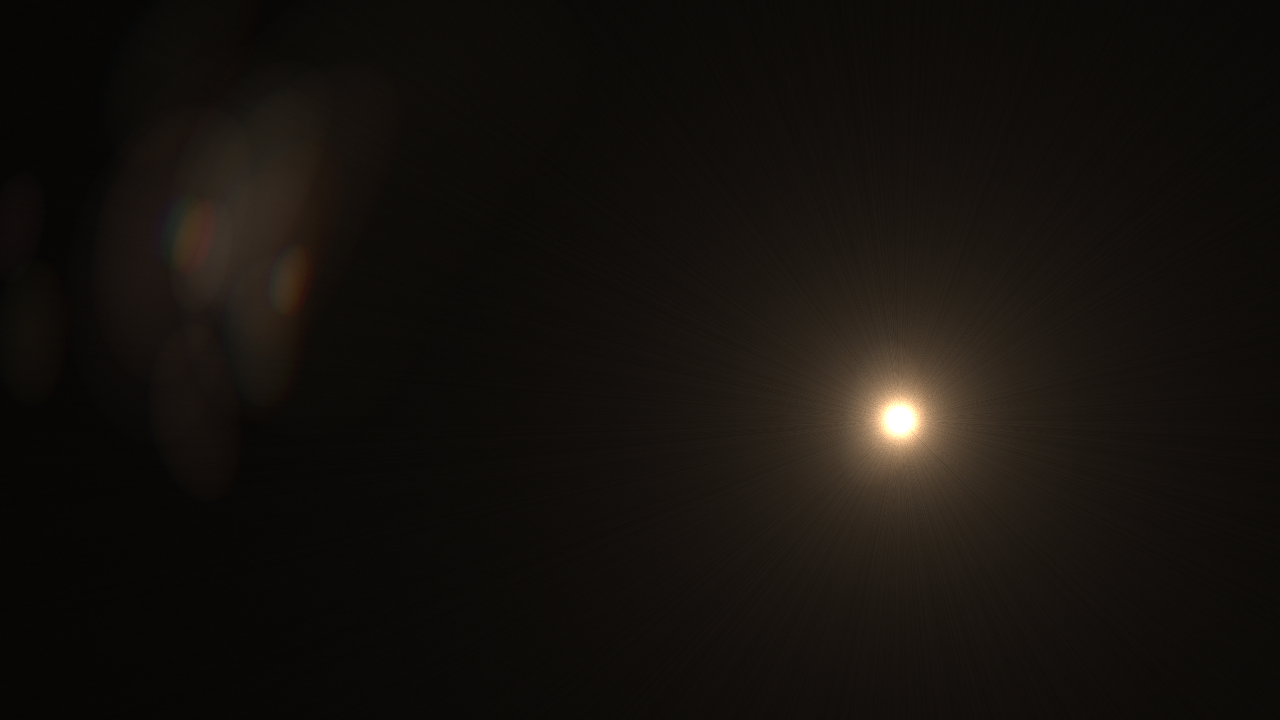
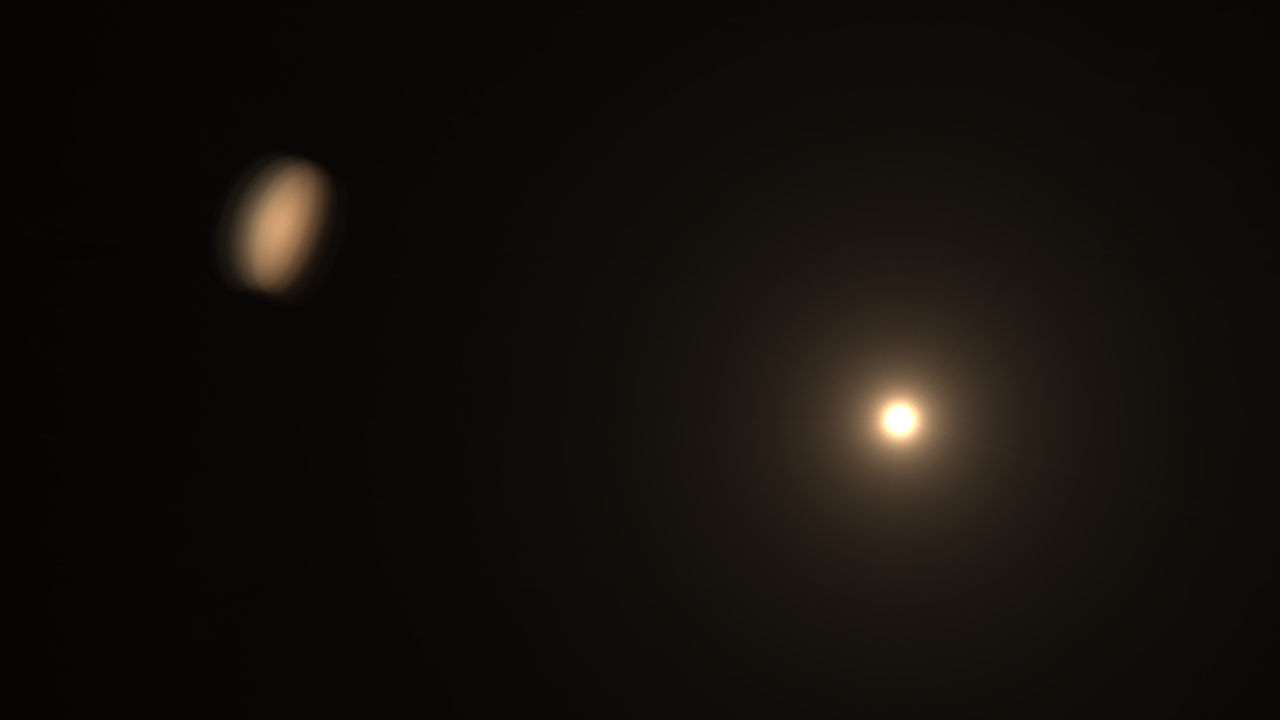
add GLSL render, and the way to use it

Changed region(s): [[0.125, 0.1528, 0.2812, 0.4889], [0.6875, 0.55, 0.7188, 0.5806]]

diff --git a/R_flare_generator/GLSL_flare.py b/R_flare_generator/GLSL_flare.py
@@ -1,7 +1,8 @@
-# from https://www.shadertoy.com/view/lsBGDKimport moderngl
 import moderngl
 import numpy as np
 from PIL import Image
+import os
+import random
 
 class FlareGenerator:
     """
@@ -9,12 +10,9 @@ class FlareGenerator:
     """
     def __init__(self, output_size=(1920, 1080)):
         self.output_size = output_size
-        self.width, self.height = self.output_size
-
-        # 在Windows上，不需要指定后端，让moderngl自动选择即可
+        self.width, self.height = output_size
         self.ctx = moderngl.create_standalone_context()
 
-        # 顶点着色器
         vertex_shader = """
             #version 330
             in vec2 in_vert;
@@ -23,7 +21,6 @@ class FlareGenerator:
             }
         """
         
-        # 片段着色器
         fragment_shader = """
             #version 330 core
             uniform vec2 u_resolution;
@@ -34,14 +31,10 @@ class FlareGenerator:
             uniform sampler2D u_noise_texture;
             out vec4 fragColor;
             
-            // --- [代码修正处] ---
-            // 我们需要恢复所有被flare函数用到的noise重载函数
             vec4 noise(vec2 p){ return texture(u_noise_texture, p / textureSize(u_noise_texture, 0)); }
             vec4 noise(float p){ return texture(u_noise_texture, vec2(p/textureSize(u_noise_texture, 0).x, 0.0));}
-            // --------------------
 
             vec3 flare(vec2 uv, vec2 pos, float seed, float size) {
-                // ... (完整的flare函数代码粘贴在这里) ...
                 vec4 gn = noise(seed-1.0); gn.x = size; vec3 c = vec3(.0); vec2 p = pos; vec2 d = uv-p;
                 c += (0.01+gn.x*.2)/(length(d)+0.001); c += vec3(noise(atan(d.y,d.x)*256.9+pos.x*2.0).y*.25)*c;
                 float fltr = length(uv); fltr = (fltr*fltr)*.5+.5; fltr = min(fltr,1.0);
@@ -72,11 +65,9 @@ class FlareGenerator:
         """
 
         self.program = self.ctx.program(vertex_shader=vertex_shader, fragment_shader=fragment_shader)
-
         vertices = np.array([-1.0, -1.0, -1.0, 1.0, 1.0, -1.0, 1.0, 1.0], dtype='f4')
         self.vbo = self.ctx.buffer(vertices)
         self.vao = self.ctx.simple_vertex_array(self.program, self.vbo, 'in_vert')
-
         self.texture_output = self.ctx.texture(self.output_size, 3)
         self.fbo = self.ctx.framebuffer(color_attachments=[self.texture_output])
 
@@ -95,38 +86,79 @@ class FlareGenerator:
         self.vao.render(moderngl.TRIANGLE_STRIP)
         image = Image.frombytes('RGB', self.fbo.size, self.fbo.read(), 'raw', 'RGB', 0, -1)
         image.save(output_path)
-        print(f"炫光图像已生成并保存到: {output_path}")
+        # 更新打印信息，使其更简洁
+        print(f"  -> 已生成: {os.path.basename(output_path)}")
         noise_texture.release()
 
-# --- 如何使用 ---
+# --- 如何使用 (已更新为批量生成模式) ---
 if __name__ == '__main__':
-    # 为了让脚本能独立运行，我们先程序化地创建一个噪声图
-    def create_noise_texture(path='noise.png', size=(256, 256)):
-        img_array = np.random.randint(0, 256, (size[1], size[0], 3), dtype=np.uint8)
-        img = Image.fromarray(img_array)
-        img.save(path)
-        print(f"已创建随机噪声纹理: {path}")
+    # --- 配置参数 ---
+    NUM_TO_GENERATE = 20
+    OUTPUT_RESOLUTION = (1280, 720)
+    TEXTURE_SOURCE_DIR = 'noise_textures'
+    OUTPUT_DIR = 'R_flare'
 
-    create_noise_texture()
+    # --- 准备工作 ---
+    # 1. 检查并创建输出目录
+    if not os.path.isdir(OUTPUT_DIR):
+        os.makedirs(OUTPUT_DIR)
+        print(f"已创建输出文件夹: '{OUTPUT_DIR}'")
 
-    # 1. 实例化生成器，可以指定输出分辨率
-    generator = FlareGenerator(output_size=(1280, 720))
+    # 2. 检查并加载可用的图片源
+    if not os.path.isdir(TEXTURE_SOURCE_DIR):
+        raise FileNotFoundError(f"错误：找不到图片源文件夹 '{TEXTURE_SOURCE_DIR}'。")
+    available_textures = [f for f in os.listdir(TEXTURE_SOURCE_DIR) if f.lower().endswith(('.png', '.jpg', '.jpeg'))]
+    if not available_textures:
+        raise FileNotFoundError(f"错误：文件夹 '{TEXTURE_SOURCE_DIR}' 中没有任何图片文件。")
+    print(f"在 '{TEXTURE_SOURCE_DIR}' 中找到了 {len(available_textures)} 个可用的图片源。")
 
-    # 2. 调用generate函数，像调用一个普通Python函数一样！
-    generator.generate(
-        light_pos=(900, 300),           # 光源在图像右侧
-        noise_image_path='noise.png',
-        output_path='flare_output_1.png',
-        time=15.5,                      # 不同的时间会产生不同的炫光细节
-        flare_size=0.2,                 # 稍大的炫光
-        light_color=(1.0, 0.8, 0.6)     # 温暖的橙色光
-    )
+    # 3. 实例化生成器
+    generator = FlareGenerator(output_size=OUTPUT_RESOLUTION)
 
-    generator.generate(
-        light_pos=(100, 600),           # 光源在图像左下角
-        noise_image_path='noise.png',
-        output_path='flare_output_2.png',
-        time=30.2,
-        flare_size=0.1,                 # 较小的炫光
-        light_color=(0.7, 0.8, 1.0)     # 冷色的蓝色光
-    )
+    # --- 开始批量生成 ---
+    print(f"\n--- 准备批量生成 {NUM_TO_GENERATE} 张炫光图像 ---")
+    
+    for i in range(1, NUM_TO_GENERATE + 1):
+        # --- 在每次循环中，完全随机化所有参数 ---
+
+        # 1. 随机选择一个图片源
+        source_texture_name = random.choice(available_textures)
+        source_path = os.path.join(TEXTURE_SOURCE_DIR, source_texture_name)
+        
+        # 2. 随机化光源位置 (在画面边界内)
+        light_pos_x = random.randint(0, generator.width)
+        light_pos_y = random.randint(0, generator.height)
+        
+        # 3. 随机化炫光大小和颜色
+        flare_size = random.uniform(0.05, 0.35)
+        # 生成更鲜艳的颜色，避免暗色
+        r = random.uniform(0.6, 1.0)
+        g = random.uniform(0.6, 1.0)
+        b = random.uniform(0.6, 1.0)
+        light_color = (r, g, b)
+
+        # 4. 随机化时间种子
+        time_seed = random.uniform(0, 500)
+
+        # 5. 定义唯一的输出文件名
+        # 格式: 001_from_texture_name.png
+        base_texture_name = os.path.splitext(source_texture_name)[0]
+        output_filename = f"{i:03d}_from_{base_texture_name}.png"
+        output_path = os.path.join(OUTPUT_DIR, output_filename)
+
+        print(f"\n[正在生成 {i}/{NUM_TO_GENERATE}] 使用图片源: '{source_texture_name}'")
+
+        # 6. 调用生成函数
+        generator.generate(
+            light_pos=(light_pos_x, light_pos_y),
+            noise_image_path=source_path,
+            output_path=output_path,
+            time=time_seed,
+            flare_size=flare_size,
+            light_color=light_color
+        )
+
+    print("\n--------------------")
+    print(f"成功生成 {NUM_TO_GENERATE} 张炫光图像！")
+    print(f"所有文件已保存到 '{OUTPUT_DIR}' 文件夹中。")
+    print("--------------------")

diff --git a/R_flare_generator/download_textures.py b/R_flare_generator/download_textures.py
@@ -1,0 +1,74 @@
+import os
+import requests
+import time
+
+TARGET_DIR = "noise_textures"
+
+HEADERS = {
+    'User-Agent': 'Mozilla/5.0 (Windows NT 10.0; Win64; x64) AppleWebKit/537.36 (KHTML, like Gecko) Chrome/91.0.4472.124 Safari/537.36',
+}
+
+# --- 精选自Poly Haven的高质量、多样化纹理 (CC0 许可) ---
+# 我们选择1K分辨率的PNG格式漫反射贴图，作为高质量的信息源
+POLY_HAVEN_TEXTURES = {
+    "abstract_plaster.png": "https://dl.polyhaven.com/file/textures/plaster_rough_43d/png/1k/plaster_rough_43d_diff_1k.png",
+    "fabric_carpet.png": "https://dl.polyhaven.com/file/textures/carpet_persian_2/png/1k/carpet_persian_2_diff_1k.png",
+    "nature_mud_cracked.png": "https://dl.polyhaven.com/file/textures/cracked_mud_01/png/1k/cracked_mud_01_diff_1k.png",
+    "nature_bark.png": "https://dl.polyhaven.com/file/textures/bark_brown_02/png/1k/bark_brown_02_diff_1k.png",
+    "metal_painted.png": "https://dl.polyhaven.com/file/textures/painted_metal_shoddy/png/1k/painted_metal_shoddy_diff_1k.png",
+    "abstract_voronoi.png": "https://dl.polyhaven.com/file/textures/voronoi_plaster/png/1k/voronoi_plaster_diff_1k.png",
+    "nature_rocks.png": "https://dl.polyhaven.com/file/textures/rock_pitted_mossy/png/1k/rock_pitted_mossy_diff_1k.png",
+    "fabric_denim.png": "https://dl.polyhaven.com/file/textures/denim_fabric/png/1k/denim_fabric_diff_1k.png",
+    "nature_sand.png": "https://dl.polyhaven.com/file/textures/sand_01/png/1k/sand_01_diff_1k.png",
+    "wood_planks.png": "https://dl.polyhaven.com/file/textures/wood_planks_weathered/png/1k/wood_planks_weathered_diff_1k.png",
+    "abstract_circuit.png": "https://dl.polyhaven.com/file/textures/circuit_board/png/1k/circuit_board_diff_1k.png",
+    "fabric_wool.png": "https://dl.polyhaven.com/file/textures/wool_big_stitch/png/1k/wool_big_stitch_diff_1k.png",
+}
+
+def download_textures(textures, directory):
+    if not os.path.exists(directory):
+        print(f"目标文件夹 '{directory}' 不存在，正在创建...")
+        os.makedirs(directory)
+    
+    print(f"\n开始从 Poly Haven 下载 {len(textures)} 个纹理到 '{directory}' 文件夹...")
+    
+    success_count = 0
+    skipped_count = 0
+    total_size = 0
+    
+    for filename, url in textures.items():
+        file_path = os.path.join(directory, filename)
+        
+        if os.path.exists(file_path):
+            print(f"-> 跳过: '{filename}' 已存在。")
+            skipped_count += 1
+            continue
+        
+        try:
+            print(f"-> 正在下载: '{filename}' ...", end='', flush=True)
+            response = requests.get(url, headers=HEADERS, timeout=60, stream=True)
+            response.raise_for_status()
+
+            file_size = 0
+            with open(file_path, 'wb') as f:
+                for chunk in response.iter_content(chunk_size=8192):
+                    f.write(chunk)
+                    file_size += len(chunk)
+            
+            total_size += file_size
+            print(f" 完成 ({file_size / 1024:.1f} KB)")
+            success_count += 1
+            time.sleep(0.5)
+            
+        except requests.exceptions.RequestException as e:
+            print(f"\n !! 错误: 下载 '{filename}' 失败。原因: {e}")
+            
+    total_mb = total_size / (1024 * 1024)
+    print("\n--------------------")
+    print("下载任务完成！")
+    print(f"成功下载: {success_count} 个文件 (共 {total_mb:.2f} MB)")
+    print(f"跳过已有: {skipped_count} 个文件")
+    print("--------------------")
+
+if __name__ == "__main__":
+    download_textures(POLY_HAVEN_TEXTURES, TARGET_DIR)

diff --git a/R_flare_generator/generate_procedural_noise.py b/R_flare_generator/generate_procedural_noise.py
@@ -1,0 +1,97 @@
+import os
+import numpy as np
+from PIL import Image
+from perlin_noise import PerlinNoise
+import random
+
+# --- 配置 ---
+TOTAL_IMAGES = 50
+TARGET_DIR = "noise_textures"
+IMAGE_SIZE = 512
+
+# --- 参数范围，用于生成多样化的噪声 ---
+# Perlin噪声的复杂度范围 (octaves)
+PERLIN_OCTAVES_MIN = 2
+PERLIN_OCTAVES_MAX = 32
+
+# Voronoi噪声的细胞点数范围
+VORONOI_POINTS_MIN = 10
+VORONOI_POINTS_MAX = 250
+
+# --- 核心生成函数 (保持不变) ---
+
+def generate_perlin_image(filename, octaves, seed):
+    """使用Perlin噪声算法生成一张灰度图"""
+    noise = PerlinNoise(octaves=octaves, seed=seed)
+    pic = np.zeros((IMAGE_SIZE, IMAGE_SIZE))
+    
+    # 这里我们只在函数入口打印一次，避免在循环中刷屏
+    print(f"-> 正在生成 Perlin 噪声: {filename}")
+    for i in range(IMAGE_SIZE):
+        for j in range(IMAGE_SIZE):
+            noise_val = noise([i / IMAGE_SIZE, j / IMAGE_SIZE])
+            pic[i][j] = (noise_val + 0.5) * 255
+
+    img = Image.fromarray(pic).convert('L')
+    img.save(os.path.join(TARGET_DIR, filename))
+
+def generate_voronoi_like_image(filename, num_points, seed):
+    """生成一个简单的、类似Voronoi图的图像"""
+    np.random.seed(seed)
+    points = np.random.randint(0, IMAGE_SIZE, (num_points, 2))
+    pic = np.zeros((IMAGE_SIZE, IMAGE_SIZE))
+    
+    print(f"-> 正在生成 Voronoi 噪声: {filename}")
+    for i in range(IMAGE_SIZE):
+        for j in range(IMAGE_SIZE):
+            distances = np.sqrt(np.sum((points - [i, j])**2, axis=1))
+            min_dist = np.min(distances)
+            pic[i][j] = min(255, min_dist * 2.5)
+
+    img = Image.fromarray(pic).convert('L')
+    img.save(os.path.join(TARGET_DIR, filename))
+
+
+# --- 主程序：批量生成300个噪声 ---
+
+if __name__ == "__main__":
+    if not os.path.exists(TARGET_DIR):
+        os.makedirs(TARGET_DIR)
+        print(f"已创建文件夹: '{TARGET_DIR}'")
+
+    print(f"\n准备开始批量生成 {TOTAL_IMAGES} 个程序化噪声图片...")
+    print("这个过程可能需要几分钟，请耐心等待。")
+    
+    # 我们将生成一半Perlin噪声，一半Voronoi噪声
+    num_perlin = TOTAL_IMAGES // 2
+    num_voronoi = TOTAL_IMAGES - num_perlin
+
+    # --- 批量生成Perlin噪声 ---
+    print(f"\n--- 正在生成 {num_perlin} 个 Perlin 噪声图像 ---")
+    for i in range(1, num_perlin + 1):
+        # 随机化参数
+        seed = i
+        octaves = random.randint(PERLIN_OCTAVES_MIN, PERLIN_OCTAVES_MAX)
+        
+        # 创建唯一的文件名
+        filename = f"perlin_{i:03d}_oct{octaves}_seed{seed}.png"
+        
+        generate_perlin_image(filename, octaves=octaves, seed=seed)
+
+    # --- 批量生成Voronoi噪声 ---
+    print(f"\n--- 正在生成 {num_voronoi} 个 Voronoi 噪声图像 ---")
+    for i in range(1, num_voronoi + 1):
+        # 随机化参数
+        seed = i + num_perlin # 确保seed不重复
+        num_points = random.randint(VORONOI_POINTS_MIN, VORONOI_POINTS_MAX)
+        
+        # 创建唯一的文件名
+        filename = f"voronoi_{i:03d}_pts{num_points}_seed{seed}.png"
+
+        generate_voronoi_like_image(filename, num_points=num_points, seed=seed)
+    
+    print("\n--------------------")
+    print(f"成功生成 {TOTAL_IMAGES} 个程序化噪声！")
+    print(f"您现在可以将真实照片也添加到 '{TARGET_DIR}' 文件夹中，")
+    print("然后运行 GLSL_flare.py 来生成炫光图像。")
+    print("--------------------")
